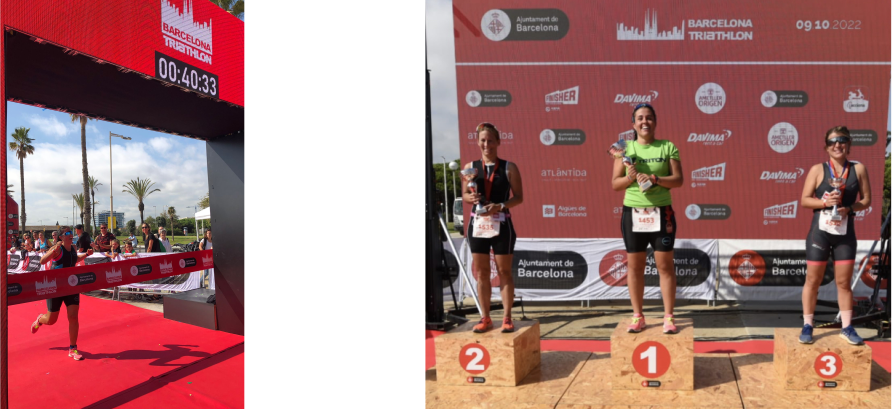
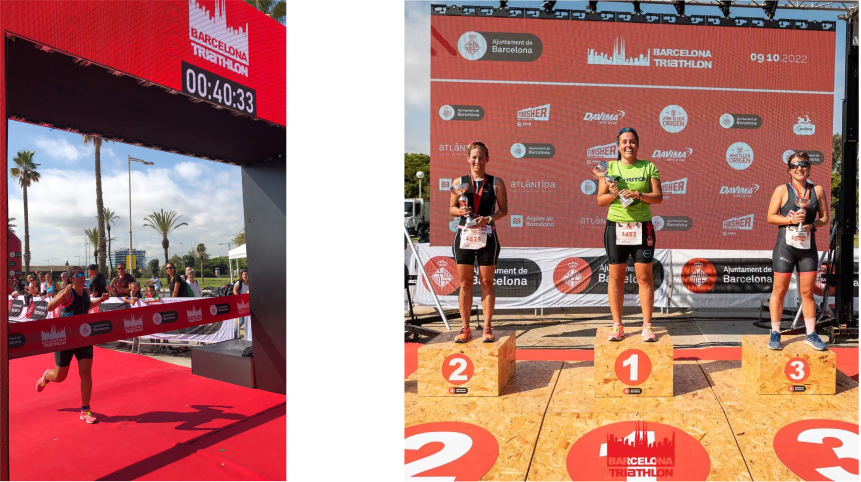
Change photo quality

diff --git a/researchProjects.html b/researchProjects.html
@@ -57,7 +57,7 @@ title: Research projects
 </p>
 
 <hr />
-<h3>Master's Thesis co-directed</h3>
+<h3>Master's Theses co-directed</h3>
 <p>
     As part of my work as a Research Assistant at the IIT and the CIC, I have had the opportunity to co-supervise
     several master's theses that were in line with either my Ph.D. research or with the projects proposed by the CIC
